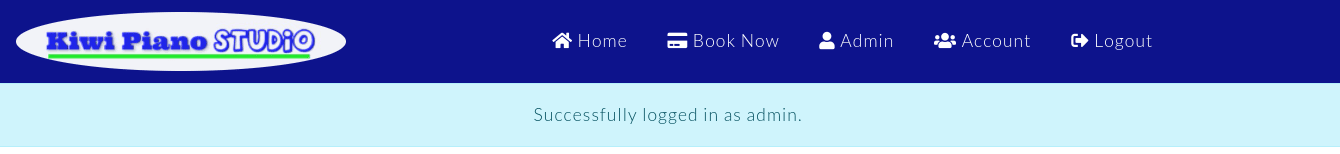
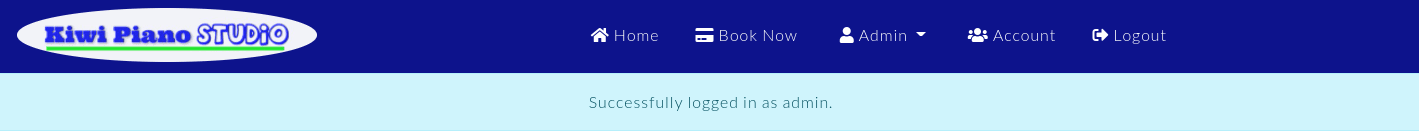
Correct typo and update screenshots in README.md

diff --git a/README.md b/README.md
@@ -195,7 +195,7 @@ The site uses white color for the background and black color for the text. The b
 * Color source image
   <details><summary>The color theme was extracted from this image.</summary>
 
-  ![Image](media/images/piano4.jpg)
+  ![Image](https://res.cloudinary.com/dyfa8b6fs/image/upload/v1655716371/media/images/pianist1_jcvphw.jpg)
 
   </detials>
 
@@ -255,20 +255,20 @@ The model name Lesson is called ```Session``` in the project.
 
   ![Header logged in](media/readme-pics/header2.png)
 
-* The site's navigation tabs are changed to ```Home, Book Now, Admin, Account, Logout``` when admin is logged in.
+* The site's navigation tabs are changed to ```Home, Book Now, Admin, Account, Logout``` when admin is logged in. The admin tab is a dorpdown link.
   ![Admin logged in](media/readme-pics/admin.png)
 
 [Back to top](#kiwi-piano-studio)
 
 * ## Register Page
 
-  The register page contains a user registration form that asks user to fill in the user name, email address and password. The user data is saved in the database.  User gets a confirmation after registering an account. 
+  The register page contains a user registration form that asks user to fill in the user name, email address and password. The user data is saved in the database. 
 
   * Register form
   
     ![Register page](media/readme-pics/register_page.png)
 
-  * User is logged in automatically after registration.
+  * User is logged in automatically after completing the registration.
 
     ![Register confirmation page](media/readme-pics/register_sucess.png)
 
@@ -288,7 +288,7 @@ The model name Lesson is called ```Session``` in the project.
 [Back to top](#kiwi-piano-studio)
 
 * ## Profile Page
-  The profile page displays user's personal information such as username, email, first name, last name, user's profile image, phone number. User is able to update all of the personal details. The updated data is also updated in the database in the same time. User is able to delete the account with all the data from the database. User is redirected to the page where it gives user an alert message that ask user to confirm the delete process. There is a booking list that shows the bookings user has made.
+  The profile page displays user's personal information such as username, email, first name, last name, user's profile image, phone number. User is able to update all of the personal details. The updated data is also updated in the database in the same time. User is able to delete the account with all the data from the database. User is redirected to the page where it gives user an alert message that asks user to confirm the delete process. There is a booking list that shows the bookings user has made.
 
   * Profile form
     ![Profile](media/readme-pics/profile_update.png)
